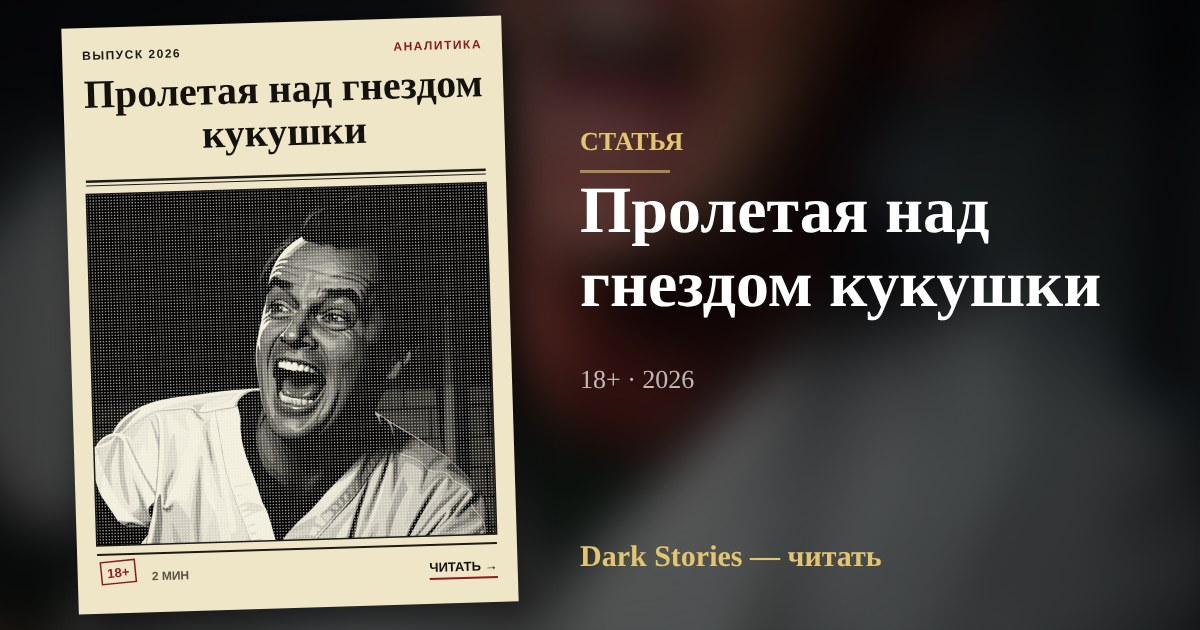
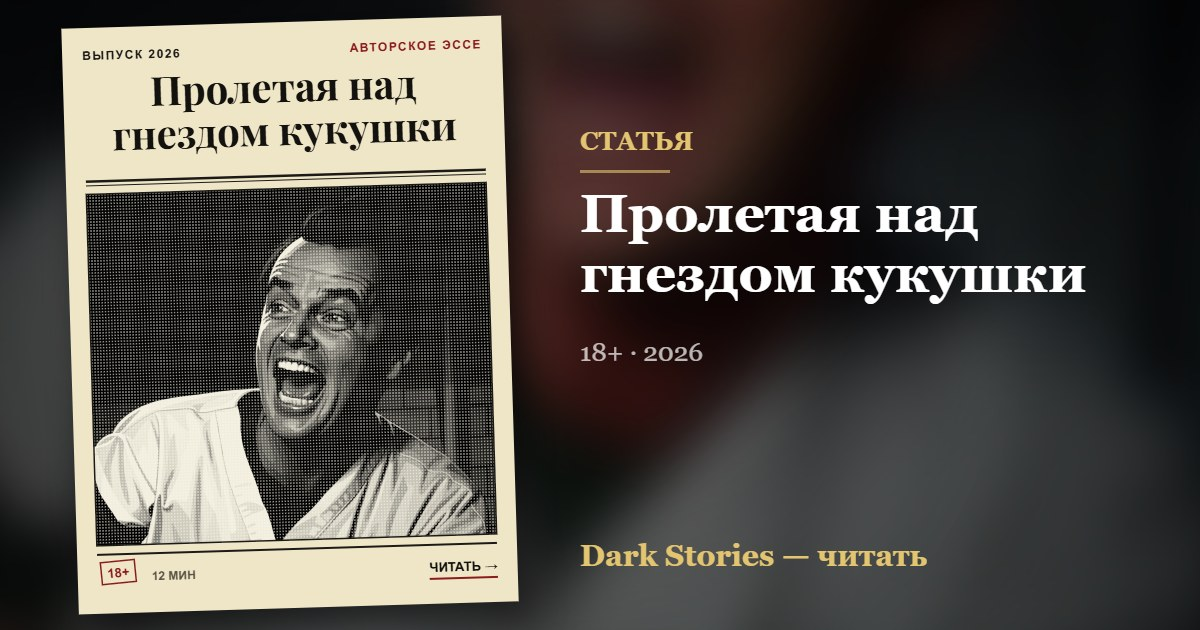
Админка: Изменены данные: «Пролетая над гнездом кукушки»

diff --git a/s/cuckoos-nest.html b/s/cuckoos-nest.html
@@ -1,12 +1,12 @@
 <!doctype html>
 <html lang="ru"><head><meta charset="utf-8"><meta name="viewport" content="width=device-width,initial-scale=1">
 <title>Пролетая над гнездом кукушки — Dark Stories</title>
-<meta name="description" content="Почему мы сами держим себя в клетке. Разбор культового романа Кизи.">
+<meta name="description" content="Почему мы сами держим себя в клетке. Разбор культового романа Кена Кизи. Как система превращает свободных людей в послушных пациентов без решёток и шокеров и какую цену приходится платить тем, кто решается сказать «нет».">
 <meta property="og:type" content="article"><meta property="og:site_name" content="Dark Stories">
-<meta property="og:title" content="Пролетая над гнездом кукушки — Dark Stories"><meta property="og:description" content="Почему мы сами держим себя в клетке. Разбор культового романа Кизи.">
+<meta property="og:title" content="Пролетая над гнездом кукушки — Dark Stories"><meta property="og:description" content="Почему мы сами держим себя в клетке. Разбор культового романа Кена Кизи. Как система превращает свободных людей в послушных пациентов без решёток и шокеров и какую цену приходится платить тем, кто решается сказать «нет».">
 <meta property="og:image" content="https://darkstories.ru/s/cuckoos-nest.jpg"><meta property="og:url" content="https://darkstories.ru/s/cuckoos-nest.html">
 <meta name="twitter:card" content="summary_large_image"><meta name="twitter:title" content="Пролетая над гнездом кукушки — Dark Stories">
-<meta name="twitter:description" content="Почему мы сами держим себя в клетке. Разбор культового романа Кизи."><meta name="twitter:image" content="https://darkstories.ru/s/cuckoos-nest.jpg">
+<meta name="twitter:description" content="Почему мы сами держим себя в клетке. Разбор культового романа Кена Кизи. Как система превращает свободных людей в послушных пациентов без решёток и шокеров и какую цену приходится платить тем, кто решается сказать «нет»."><meta name="twitter:image" content="https://darkstories.ru/s/cuckoos-nest.jpg">
 <link rel="canonical" href="https://darkstories.ru/s/cuckoos-nest.html">
 <script>location.replace("../#/read/cuckoos-nest")</script>
 <style>body{background:#0b0b0d;color:#ddd;font:16px system-ui,sans-serif;display:grid;place-items:center;min-height:100vh;margin:0}a{color:#e8c27a}</style>

diff --git a/js/data.js b/js/data.js
@@ -176,10 +176,10 @@ var WORKS = [
     "description": "Почему мы сами держим себя в клетке. Разбор культового романа Кена Кизи. Как система превращает свободных людей в послушных пациентов без решёток и шокеров и какую цену приходится платить тем, кто решается сказать «нет».",
     "genre": "Авторское эссе",
     "age": "18+",
-    "year": "2025",
+    "year": "2026",
     "status": "published",
     "minutes": 12,
-    "month": "декабрь"
+    "month": "август"
   },
   {
     "slug": "vedmak-ot-sapkovskogo-do-netflix",
